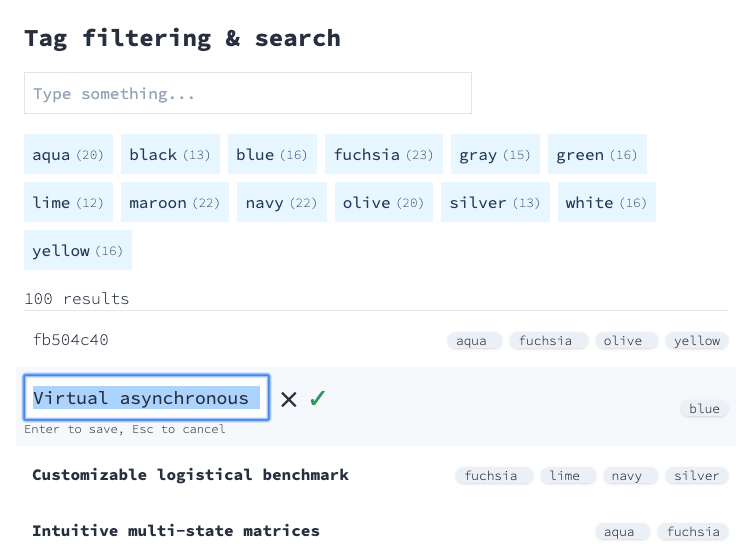
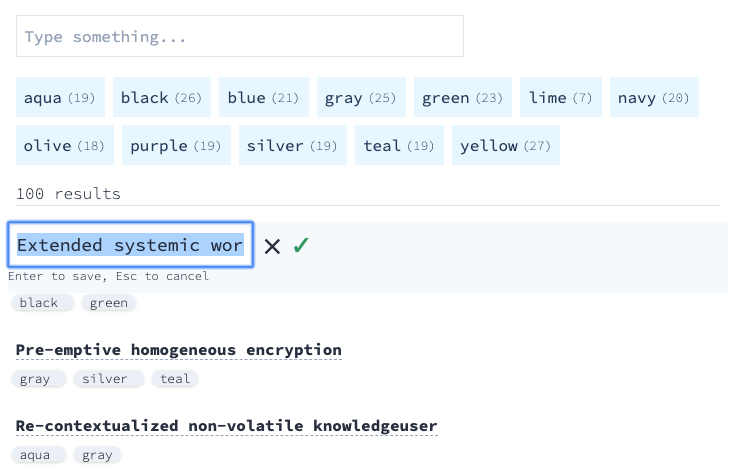
Fix nesting

diff --git a/public/css/app.css b/public/css/app.css
@@ -1,1 +1,1 @@
-@import url(https://fonts.googleapis.com/css?family=Source+Code+Pro:200,300,400,500,600,700,900);/*! normalize.css v8.0.1 | MIT License | github.com/necolas/normalize.css */html{line-height:1.15;-webkit-text-size-adjust:100%}body{margin:0}main{display:block}h1{font-size:2em;margin:.67em 0}hr{box-sizing:content-box;height:0;overflow:visible}a{background-color:transparent}strong{font-weight:bolder}code{font-family:monospace,monospace;font-size:1em}small{font-size:80%}img{border-style:none}button,input,select{font-family:inherit;font-size:100%;line-height:1.15;margin:0}button,input{overflow:visible}button,select{text-transform:none}[type=button],[type=reset],[type=submit],button{-webkit-appearance:button}[type=button]::-moz-focus-inner,[type=reset]::-moz-focus-inner,[type=submit]::-moz-focus-inner,button::-moz-focus-inner{border-style:none;padding:0}[type=button]:-moz-focusring,[type=reset]:-moz-focusring,[type=submit]:-moz-focusring,button:-moz-focusring{outline:1px dotted ButtonText}[type=checkbox],[type=radio]{box-sizing:border-box;padding:0}[type=number]::-webkit-inner-spin-button,[type=number]::-webkit-outer-spin-button{height:auto}[type=search]{-webkit-appearance:textfield;outline-offset:-2px}[type=search]::-webkit-search-decoration{-webkit-appearance:none}::-webkit-file-upload-button{-webkit-appearance:button;font:inherit}[hidden],template{display:none}h1,h2,hr,p{margin:0}button{background-color:transparent;background-image:none;padding:0}button:focus{outline:1px dotted;outline:5px auto -webkit-focus-ring-color}html{font-family:Nunito,system-ui,BlinkMacSystemFont,-apple-system,Segoe UI,Roboto,Oxygen,Ubuntu,Cantarell,Fira Sans,Droid Sans,Helvetica Neue,sans-serif;line-height:1.5}*,:after,:before{box-sizing:border-box;border:0 solid #e2e8f0}hr{border-top-width:1px}img{border-style:solid}input::-webkit-input-placeholder{color:#a0aec0}input::-moz-placeholder{color:#a0aec0}input:-ms-input-placeholder{color:#a0aec0}input::-ms-input-placeholder{color:#a0aec0}input::placeholder{color:#a0aec0}[role=button],button{cursor:pointer}h1,h2{font-size:inherit;font-weight:inherit}a{color:inherit;text-decoration:inherit}button,input,select{padding:0;line-height:inherit;color:inherit}code{font-family:Source Code Pro,Menlo,Monaco,Consolas,Liberation Mono,Courier New,monospace}img,svg{display:block;vertical-align:middle}img{max-width:100%;height:auto}body{background-color:#f7fafc;line-height:1.5;font-weight:300;font-family:Source Code Pro,Menlo,Monaco,Consolas,Liberation Mono,Courier New,monospace;font-size:1rem;color:#2d3748}a{color:#4a5568}a:hover{color:#000}h1,h1>*{font-weight:700;font-size:1.875rem}h2,h2>*{font-weight:700;font-size:1.5rem}.container{width:100%}@media (min-width:640px){.container{max-width:640px}}@media (min-width:768px){.container{max-width:768px}}@media (min-width:1024px){.container{max-width:1024px}}@media (min-width:1280px){.container{max-width:1280px}}.bg-black{background-color:#000}.bg-white{background-color:#fff}.bg-gray-200{background-color:#edf2f7}.bg-gray-300{background-color:#e2e8f0}.bg-gray-800{background-color:#2d3748}.bg-blue-100{background-color:#ebf8ff}.bg-blue-200{background-color:#bee3f8}.bg-blue-500{background-color:#4299e1}.hover\:bg-gray-100:hover{background-color:#f7fafc}.hover\:bg-gray-300:hover{background-color:#e2e8f0}.hover\:bg-gray-900:hover{background-color:#1a202c}.hover\:bg-blue-200:hover{background-color:#bee3f8}.border-gray-300{border-color:#e2e8f0}.border-gray-400{border-color:#cbd5e0}.border-gray-700{border-color:#4a5568}.rounded-full{border-radius:9999px}.border-dashed{border-style:dashed}.border{border-width:1px}.border-t{border-top-width:1px}.border-b{border-bottom-width:1px}.block{display:block}.flex{display:flex}.hidden{display:none}.flex-col{flex-direction:column}.flex-wrap{flex-wrap:wrap}.items-center{align-items:center}.justify-between{justify-content:space-between}.flex-1{flex:1 1 0%}.font-thin{font-weight:200}.font-light{font-weight:300}.font-bold{font-weight:700}.font-black{font-weight:900}.h-6{height:1.5rem}.h-8{height:2rem}.m-0{margin:0}.m-1{margin:.25rem}.m-2{margin:.5rem}.-m-1{margin:-.25rem}.mx-1{margin-left:.25rem;margin-right:.25rem}.mx-auto{margin-left:auto;margin-right:auto}.-mx-1{margin-left:-.25rem;margin-right:-.25rem}.-mx-2{margin-left:-.5rem;margin-right:-.5rem}.mb-0{margin-bottom:0}.mt-1{margin-top:.25rem}.ml-1{margin-left:.25rem}.mr-2{margin-right:.5rem}.ml-2{margin-left:.5rem}.mt-4{margin-top:1rem}.mb-4{margin-bottom:1rem}.mt-8{margin-top:2rem}.mb-8{margin-bottom:2rem}.max-w-md{max-width:28rem}.max-w-3xl{max-width:48rem}.min-h-screen{min-height:100vh}.opacity-50{opacity:.5}.p-0{padding:0}.p-2{padding:.5rem}.p-4{padding:1rem}.p-8{padding:2rem}.px-1{padding-left:.25rem;padding-right:.25rem}.py-2{padding-top:.5rem;padding-bottom:.5rem}.px-2{padding-left:.5rem;padding-right:.5rem}.px-4{padding-left:1rem;padding-right:1rem}.static{position:static}.absolute{position:absolute}.relative{position:relative}.inset-0{right:0;left:0}.inset-0,.inset-y-0{top:0;bottom:0}.right-0{right:0}.shadow{box-shadow:0 1px 3px 0 rgba(0,0,0,.1),0 1px 2px 0 rgba(0,0,0,.06)}.shadow-lg{box-shadow:0 10px 15px -3px rgba(0,0,0,.1),0 4px 6px -2px rgba(0,0,0,.05)}.shadow-inner{box-shadow:inset 0 2px 4px 0 rgba(0,0,0,.06)}.fill-current{fill:currentColor}.text-left{text-align:left}.text-right{text-align:right}.text-white{color:#fff}.text-gray-100{color:#f7fafc}.text-gray-500{color:#a0aec0}.text-gray-900{color:#1a202c}.text-green-600{color:#38a169}.text-blue-100{color:#ebf8ff}.text-blue-900{color:#2a4365}.hover\:text-black:hover{color:#000}.hover\:text-blue-800:hover{color:#2c5282}.text-xs{font-size:.75rem}.text-lg{font-size:1.125rem}.text-2xl{font-size:1.5rem}.text-3xl{font-size:1.875rem}.underline{text-decoration:underline}.align-baseline{vertical-align:baseline}.w-6{width:1.5rem}.w-64{width:16rem}.w-full{width:100%}.z-10{z-index:10}[x-cloak]{display:none}@media (min-width:640px){.sm\:block{display:block}.sm\:flex{display:flex}.sm\:hidden{display:none}.sm\:text-gray-700{color:#4a5568}}
+@import url(https://fonts.googleapis.com/css?family=Source+Code+Pro:200,300,400,500,600,700,900);/*! normalize.css v8.0.1 | MIT License | github.com/necolas/normalize.css */html{line-height:1.15;-webkit-text-size-adjust:100%}body{margin:0}main{display:block}h1{font-size:2em;margin:.67em 0}hr{box-sizing:content-box;height:0;overflow:visible}a{background-color:transparent}strong{font-weight:bolder}code{font-family:monospace,monospace;font-size:1em}small{font-size:80%}img{border-style:none}button,input,select{font-family:inherit;font-size:100%;line-height:1.15;margin:0}button,input{overflow:visible}button,select{text-transform:none}[type=button],[type=reset],[type=submit],button{-webkit-appearance:button}[type=button]::-moz-focus-inner,[type=reset]::-moz-focus-inner,[type=submit]::-moz-focus-inner,button::-moz-focus-inner{border-style:none;padding:0}[type=button]:-moz-focusring,[type=reset]:-moz-focusring,[type=submit]:-moz-focusring,button:-moz-focusring{outline:1px dotted ButtonText}[type=checkbox],[type=radio]{box-sizing:border-box;padding:0}[type=number]::-webkit-inner-spin-button,[type=number]::-webkit-outer-spin-button{height:auto}[type=search]{-webkit-appearance:textfield;outline-offset:-2px}[type=search]::-webkit-search-decoration{-webkit-appearance:none}::-webkit-file-upload-button{-webkit-appearance:button;font:inherit}[hidden],template{display:none}h1,h2,hr,p{margin:0}button{background-color:transparent;background-image:none;padding:0}button:focus{outline:1px dotted;outline:5px auto -webkit-focus-ring-color}html{font-family:Nunito,system-ui,BlinkMacSystemFont,-apple-system,Segoe UI,Roboto,Oxygen,Ubuntu,Cantarell,Fira Sans,Droid Sans,Helvetica Neue,sans-serif;line-height:1.5}*,:after,:before{box-sizing:border-box;border:0 solid #e2e8f0}hr{border-top-width:1px}img{border-style:solid}input::-webkit-input-placeholder{color:#a0aec0}input::-moz-placeholder{color:#a0aec0}input:-ms-input-placeholder{color:#a0aec0}input::-ms-input-placeholder{color:#a0aec0}input::placeholder{color:#a0aec0}[role=button],button{cursor:pointer}h1,h2{font-size:inherit;font-weight:inherit}a{color:inherit;text-decoration:inherit}button,input,select{padding:0;line-height:inherit;color:inherit}code{font-family:Source Code Pro,Menlo,Monaco,Consolas,Liberation Mono,Courier New,monospace}img,svg{display:block;vertical-align:middle}img{max-width:100%;height:auto}body{background-color:#f7fafc;line-height:1.5;font-weight:300;font-family:Source Code Pro,Menlo,Monaco,Consolas,Liberation Mono,Courier New,monospace;font-size:1rem;color:#2d3748}a{color:#4a5568}a:hover{color:#000}h1,h1>*{font-weight:700;font-size:1.875rem}h2,h2>*{font-weight:700;font-size:1.5rem}.container{width:100%}@media (min-width:640px){.container{max-width:640px}}@media (min-width:768px){.container{max-width:768px}}@media (min-width:1024px){.container{max-width:1024px}}@media (min-width:1280px){.container{max-width:1280px}}.bg-black{background-color:#000}.bg-white{background-color:#fff}.bg-gray-200{background-color:#edf2f7}.bg-gray-300{background-color:#e2e8f0}.bg-gray-800{background-color:#2d3748}.bg-blue-100{background-color:#ebf8ff}.bg-blue-200{background-color:#bee3f8}.bg-blue-500{background-color:#4299e1}.hover\:bg-gray-100:hover{background-color:#f7fafc}.hover\:bg-gray-300:hover{background-color:#e2e8f0}.hover\:bg-gray-900:hover{background-color:#1a202c}.hover\:bg-blue-200:hover{background-color:#bee3f8}.border-gray-300{border-color:#e2e8f0}.border-gray-400{border-color:#cbd5e0}.border-gray-500{border-color:#a0aec0}.border-gray-700{border-color:#4a5568}.rounded-full{border-radius:9999px}.border-dashed{border-style:dashed}.border{border-width:1px}.border-t{border-top-width:1px}.border-b{border-bottom-width:1px}.block{display:block}.flex{display:flex}.hidden{display:none}.flex-col{flex-direction:column}.flex-wrap{flex-wrap:wrap}.items-center{align-items:center}.justify-between{justify-content:space-between}.flex-1{flex:1 1 0%}.font-thin{font-weight:200}.font-light{font-weight:300}.font-bold{font-weight:700}.font-black{font-weight:900}.h-6{height:1.5rem}.h-8{height:2rem}.m-0{margin:0}.m-1{margin:.25rem}.m-2{margin:.5rem}.-m-1{margin:-.25rem}.mx-1{margin-left:.25rem;margin-right:.25rem}.mx-auto{margin-left:auto;margin-right:auto}.-mx-2{margin-left:-.5rem;margin-right:-.5rem}.mb-0{margin-bottom:0}.mt-1{margin-top:.25rem}.ml-1{margin-left:.25rem}.mr-2{margin-right:.5rem}.mb-2{margin-bottom:.5rem}.ml-2{margin-left:.5rem}.mt-4{margin-top:1rem}.mb-4{margin-bottom:1rem}.mt-8{margin-top:2rem}.mb-8{margin-bottom:2rem}.-mt-1{margin-top:-.25rem}.max-w-md{max-width:28rem}.max-w-3xl{max-width:48rem}.min-h-screen{min-height:100vh}.opacity-50{opacity:.5}.p-0{padding:0}.p-2{padding:.5rem}.p-4{padding:1rem}.p-8{padding:2rem}.px-1{padding-left:.25rem;padding-right:.25rem}.py-2{padding-top:.5rem;padding-bottom:.5rem}.px-2{padding-left:.5rem;padding-right:.5rem}.px-4{padding-left:1rem;padding-right:1rem}.static{position:static}.absolute{position:absolute}.relative{position:relative}.inset-0{right:0;left:0}.inset-0,.inset-y-0{top:0;bottom:0}.right-0{right:0}.shadow{box-shadow:0 1px 3px 0 rgba(0,0,0,.1),0 1px 2px 0 rgba(0,0,0,.06)}.shadow-lg{box-shadow:0 10px 15px -3px rgba(0,0,0,.1),0 4px 6px -2px rgba(0,0,0,.05)}.shadow-inner{box-shadow:inset 0 2px 4px 0 rgba(0,0,0,.06)}.fill-current{fill:currentColor}.text-left{text-align:left}.text-right{text-align:right}.text-white{color:#fff}.text-gray-100{color:#f7fafc}.text-gray-500{color:#a0aec0}.text-gray-900{color:#1a202c}.text-green-600{color:#38a169}.text-blue-100{color:#ebf8ff}.text-blue-900{color:#2a4365}.hover\:text-black:hover{color:#000}.hover\:text-blue-800:hover{color:#2c5282}.text-xs{font-size:.75rem}.text-lg{font-size:1.125rem}.text-2xl{font-size:1.5rem}.text-3xl{font-size:1.875rem}.underline{text-decoration:underline}.align-baseline{vertical-align:baseline}.w-6{width:1.5rem}.w-64{width:16rem}.w-full{width:100%}.z-10{z-index:10}[x-cloak]{display:none}@media (min-width:640px){.sm\:block{display:block}.sm\:flex{display:flex}.sm\:hidden{display:none}.sm\:text-gray-700{color:#4a5568}}

diff --git a/resources/views/livewire/edit-name.blade.php b/resources/views/livewire/edit-name.blade.php
@@ -1,45 +1,49 @@
-<div
-    x-data="
-        {
-             isEditing: false,
-             isName: '{{ $isName }}',
-             focus: function() {
-                const textInput = this.$refs.textInput;
-                textInput.focus();
-                textInput.select();
-             }
-        }
-    "
-    x-cloak
->
+<div class="flex items-center justify-between -mx-2 hover:bg-gray-100">
     <div
-        class="p-2"
-        x-show=!isEditing
+        class="flex items-center justify-between w-full"
+        x-data="
+            {
+                 isEditing: false,
+                 isName: '{{ $isName }}',
+                 focus: function() {
+                    const textInput = this.$refs.textInput;
+                    textInput.focus();
+                    textInput.select();
+                 }
+            }
+        "
+        x-cloak
     >
-        <span
-            x-bind:class="{ 'font-bold': isName }"
-            x-on:click="isEditing = true; $nextTick(() => focus())"
-        >{{ $origName }}</span>
-    </div>
-    <div x-show=isEditing class="flex flex-col">
-        <form class="flex" wire:submit.prevent="save">
-            <input
-                type="text"
-                class="px-2 border border-gray-400 text-lg shadow-inner"
-                placeholder="100 characters max."
-                x-ref="textInput"
-                wire:model.lazy="newName"
-                x-on:keydown.enter="isEditing = false"
-                x-on:keydown.escape="isEditing = false"
-            >
-            <button type="button" class="px-1 ml-2 text-3xl" title="Cancel" x-on:click="isEditing = false">𐄂</button>
-            <button
-                type="submit"
-                class="px-1 ml-1 text-3xl font-bold text-green-600"
-                title="Save"
-                x-on:click="isEditing = false"
-            >✓</button>
-        </form>
-        <small class="text-xs">Enter to save, Esc to cancel</small>
+        <div
+            class="p-2"
+            x-show=!isEditing
+        >
+            <span
+                class="border-b border-dashed border-gray-500"
+                x-bind:class="{ 'font-bold': isName }"
+                x-on:click="isEditing = true; $nextTick(() => focus())"
+            >{{ $origName }}</span>
+        </div>
+        <div x-show=isEditing class="flex flex-col mb-2">
+            <form class="flex" wire:submit.prevent="save">
+                <input
+                    type="text"
+                    class="px-2 border border-gray-400 text-lg shadow-inner"
+                    placeholder="100 characters max."
+                    x-ref="textInput"
+                    wire:model.lazy="newName"
+                    x-on:keydown.enter="isEditing = false"
+                    x-on:keydown.escape="isEditing = false"
+                >
+                <button type="button" class="px-1 ml-2 text-3xl" title="Cancel" x-on:click="isEditing = false">𐄂</button>
+                <button
+                    type="submit"
+                    class="px-1 ml-1 text-3xl font-bold text-green-600"
+                    title="Save"
+                    x-on:click="isEditing = false"
+                >✓</button>
+            </form>
+            <small class="text-xs">Enter to save, Esc to cancel</small>
+        </div>
     </div>
 </div>

diff --git a/resources/views/livewire/widgets.blade.php b/resources/views/livewire/widgets.blade.php
@@ -36,23 +36,22 @@
     <div class="">
         @if($total = $widgets->count())
             <div class="mt-4">{{ $total }} results</div>
-            <hr class="border-t">
-            @foreach($widgets as $widget)
-                <div class="flex items-center justify-between p-2 -mx-2 hover:bg-gray-100">
-                    @livewire('edit-name', compact('widget'), key($widget->id))
+            <hr class="border-t mb-4">
 
-                    @if($tags = $widget->tags)
-                        <div class="-mx-1 text-right">
-                            @foreach($tags as $tag)
-                                <small
-                                    class="mx-1 {{ in_array($tag->id, $filters) ? 'bg-blue-200 text-blue-900' : 'bg-gray-200 text-gray-900' }} rounded-full px-2 shadow"
-                                >
-                                    {{ $tag->name }}
-                                </small>
-                            @endforeach
-                        </div>
-                    @endif
-                </div>
+            @foreach($widgets as $widget)
+                @livewire('edit-name', compact('widget'), key($widget->id))
+
+                @if($tags = $widget->tags)
+                    <div class="mb-4 -mt-1 -mx-2">
+                        @foreach($tags as $tag)
+                            <small
+                                class="mx-1 {{ in_array($tag->id, $filters) ? 'bg-blue-200 text-blue-900' : 'bg-gray-200 text-gray-900' }} rounded-full px-2 shadow"
+                            >
+                                {{ $tag->name }}
+                            </small>
+                        @endforeach
+                    </div>
+                @endif
             @endforeach
         @else
             no results
